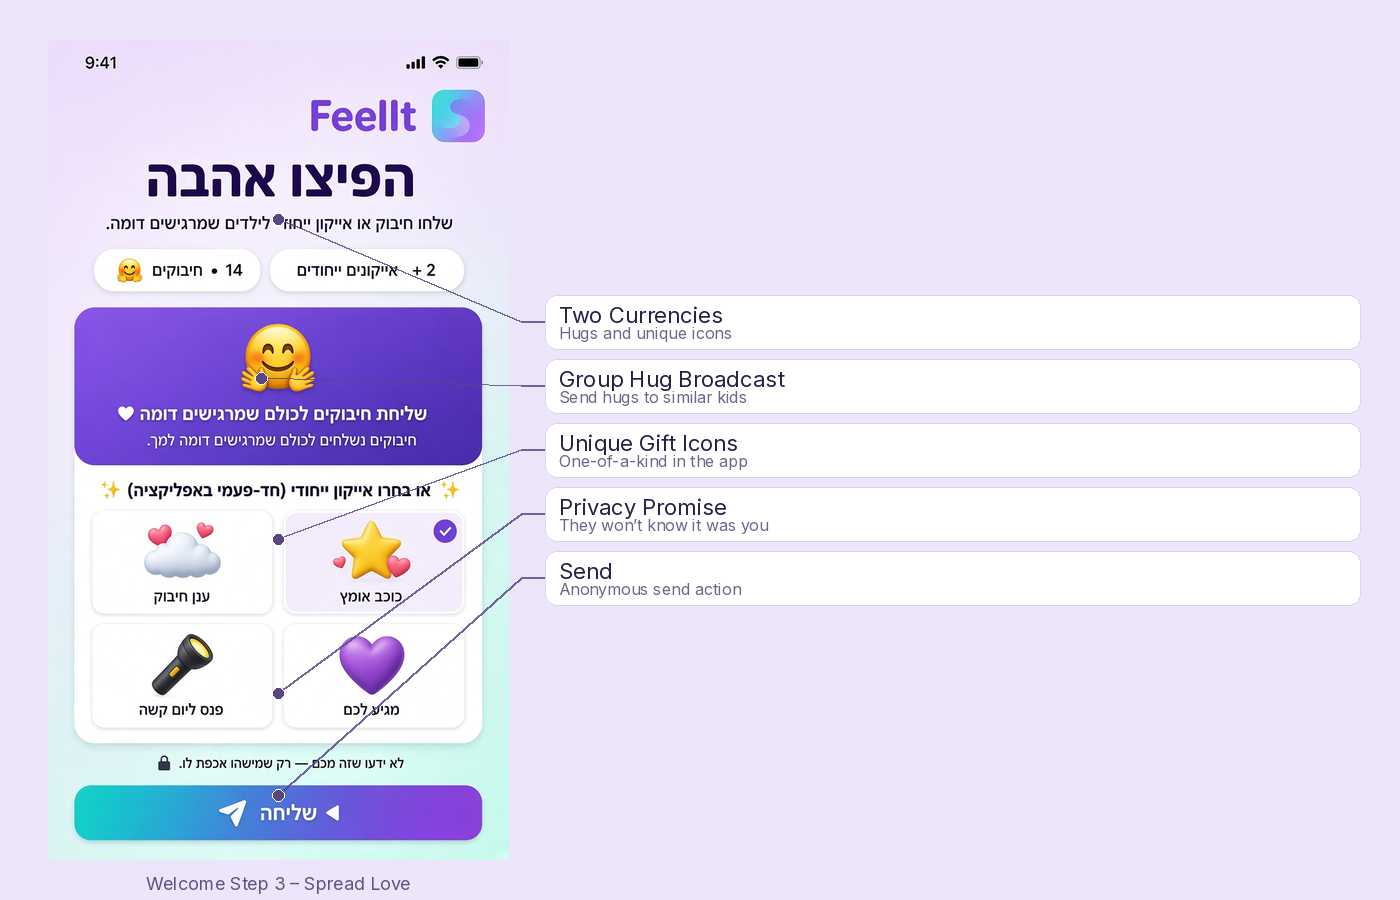
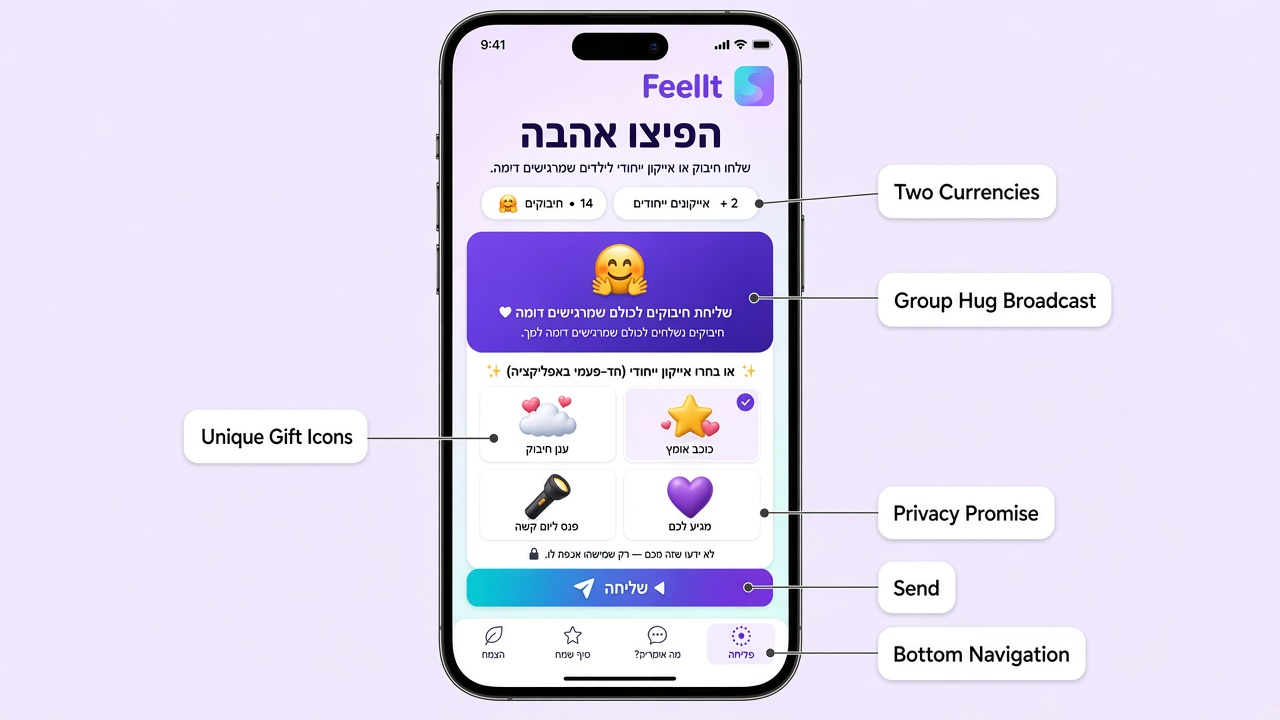
Add consistent tab bar to all screens + rebuild annotated frames
Critical product corrections:

1. Bottom tab bar on ALL screens:
   - Added tab bar to welcome-screen.png, welcome-not-alone.png, welcome-gift.png
   - Tab order (RTL): הצמח · סוף שמח · מה אומרים? · פתיחה
   - פתיחה active on welcome screens
   - Verified existing main-app screens have correct tab bar

2. Rebuilt all 6 annotated frames with correct callout targeting:
   - welcome-step1-annotated: Daily Check-in, Feeling Levers, polarity labels, Continue, Bottom Navigation
   - welcome-step2-annotated: Emotional Reassurance→title, Anonymous Count→42, Sticker Signals, Cross-School Match, Group Hug→button, Random Gift→button, Continue, Bottom Navigation
   - welcome-step3-annotated: Two Currencies, Group Hug Broadcast, Unique Gift Icons, Privacy Promise, Send, Bottom Navigation
   - what-do-they-say-annotated: New Question→purple button, Image Poll, Tap-to-Vote, Vote Count→128 text, Bottom Navigation
   - happy-ending-annotated: Story Input→input field, Anonymous Share, Verified Anonymous→badge, Hug Support→36 counter, Suggest Happy Ending, Community Resolution, Bottom Navigation
   - my-plant-annotated: Living Profile→title, Hugs Received→tile, Growth Stage→tile, Pot Stickers→pot, Water Progress, Grown Fruits, Bottom Navigation

3. Updated README: Added note about app-wide navigation bar

diff --git a/README.md b/README.md
@@ -22,6 +22,8 @@
 
 ## Screens
 
+**App-wide navigation:** All screens share the same four-tab bottom navigation bar (RTL order: הצמח · סוף שמח · מה אומרים? · פתיחה). The active tab is highlighted based on the current screen. Welcome flow screens have פתיחה active.
+
 ### Welcome Flow · פתיחה
 
 Daily check-in flow (3 steps). No free text—only structured inputs that are safe by design.
